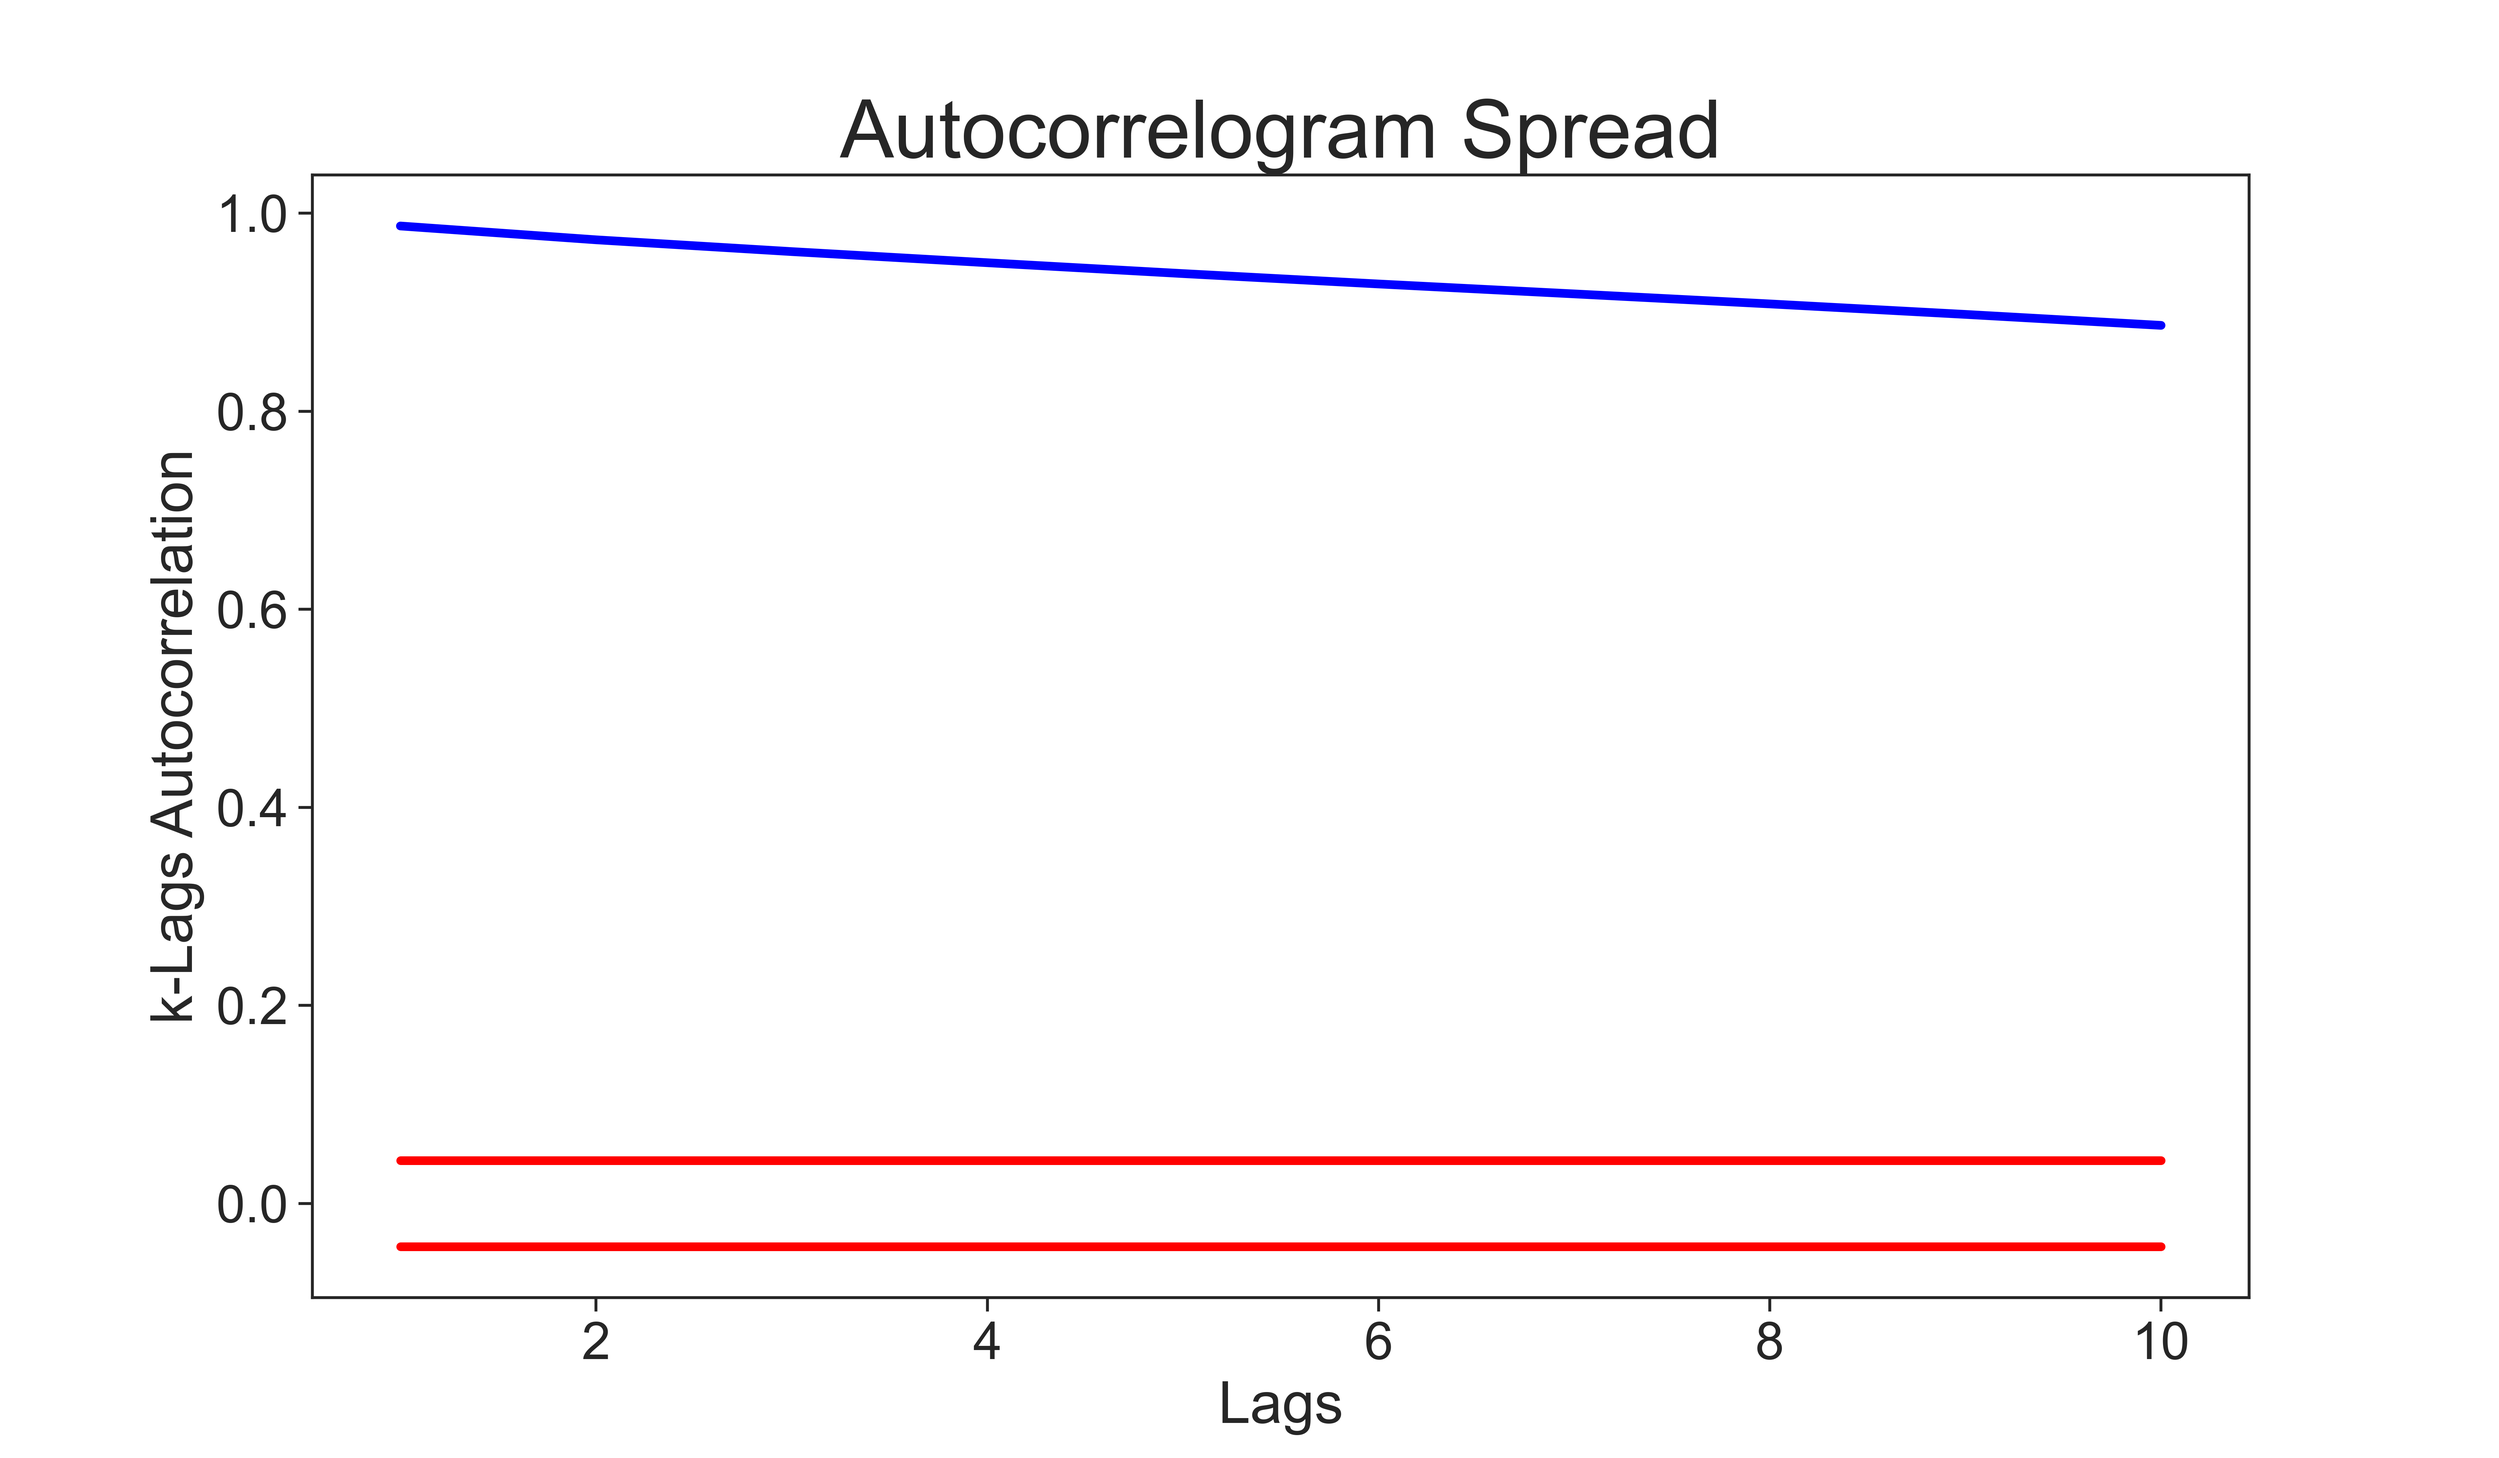
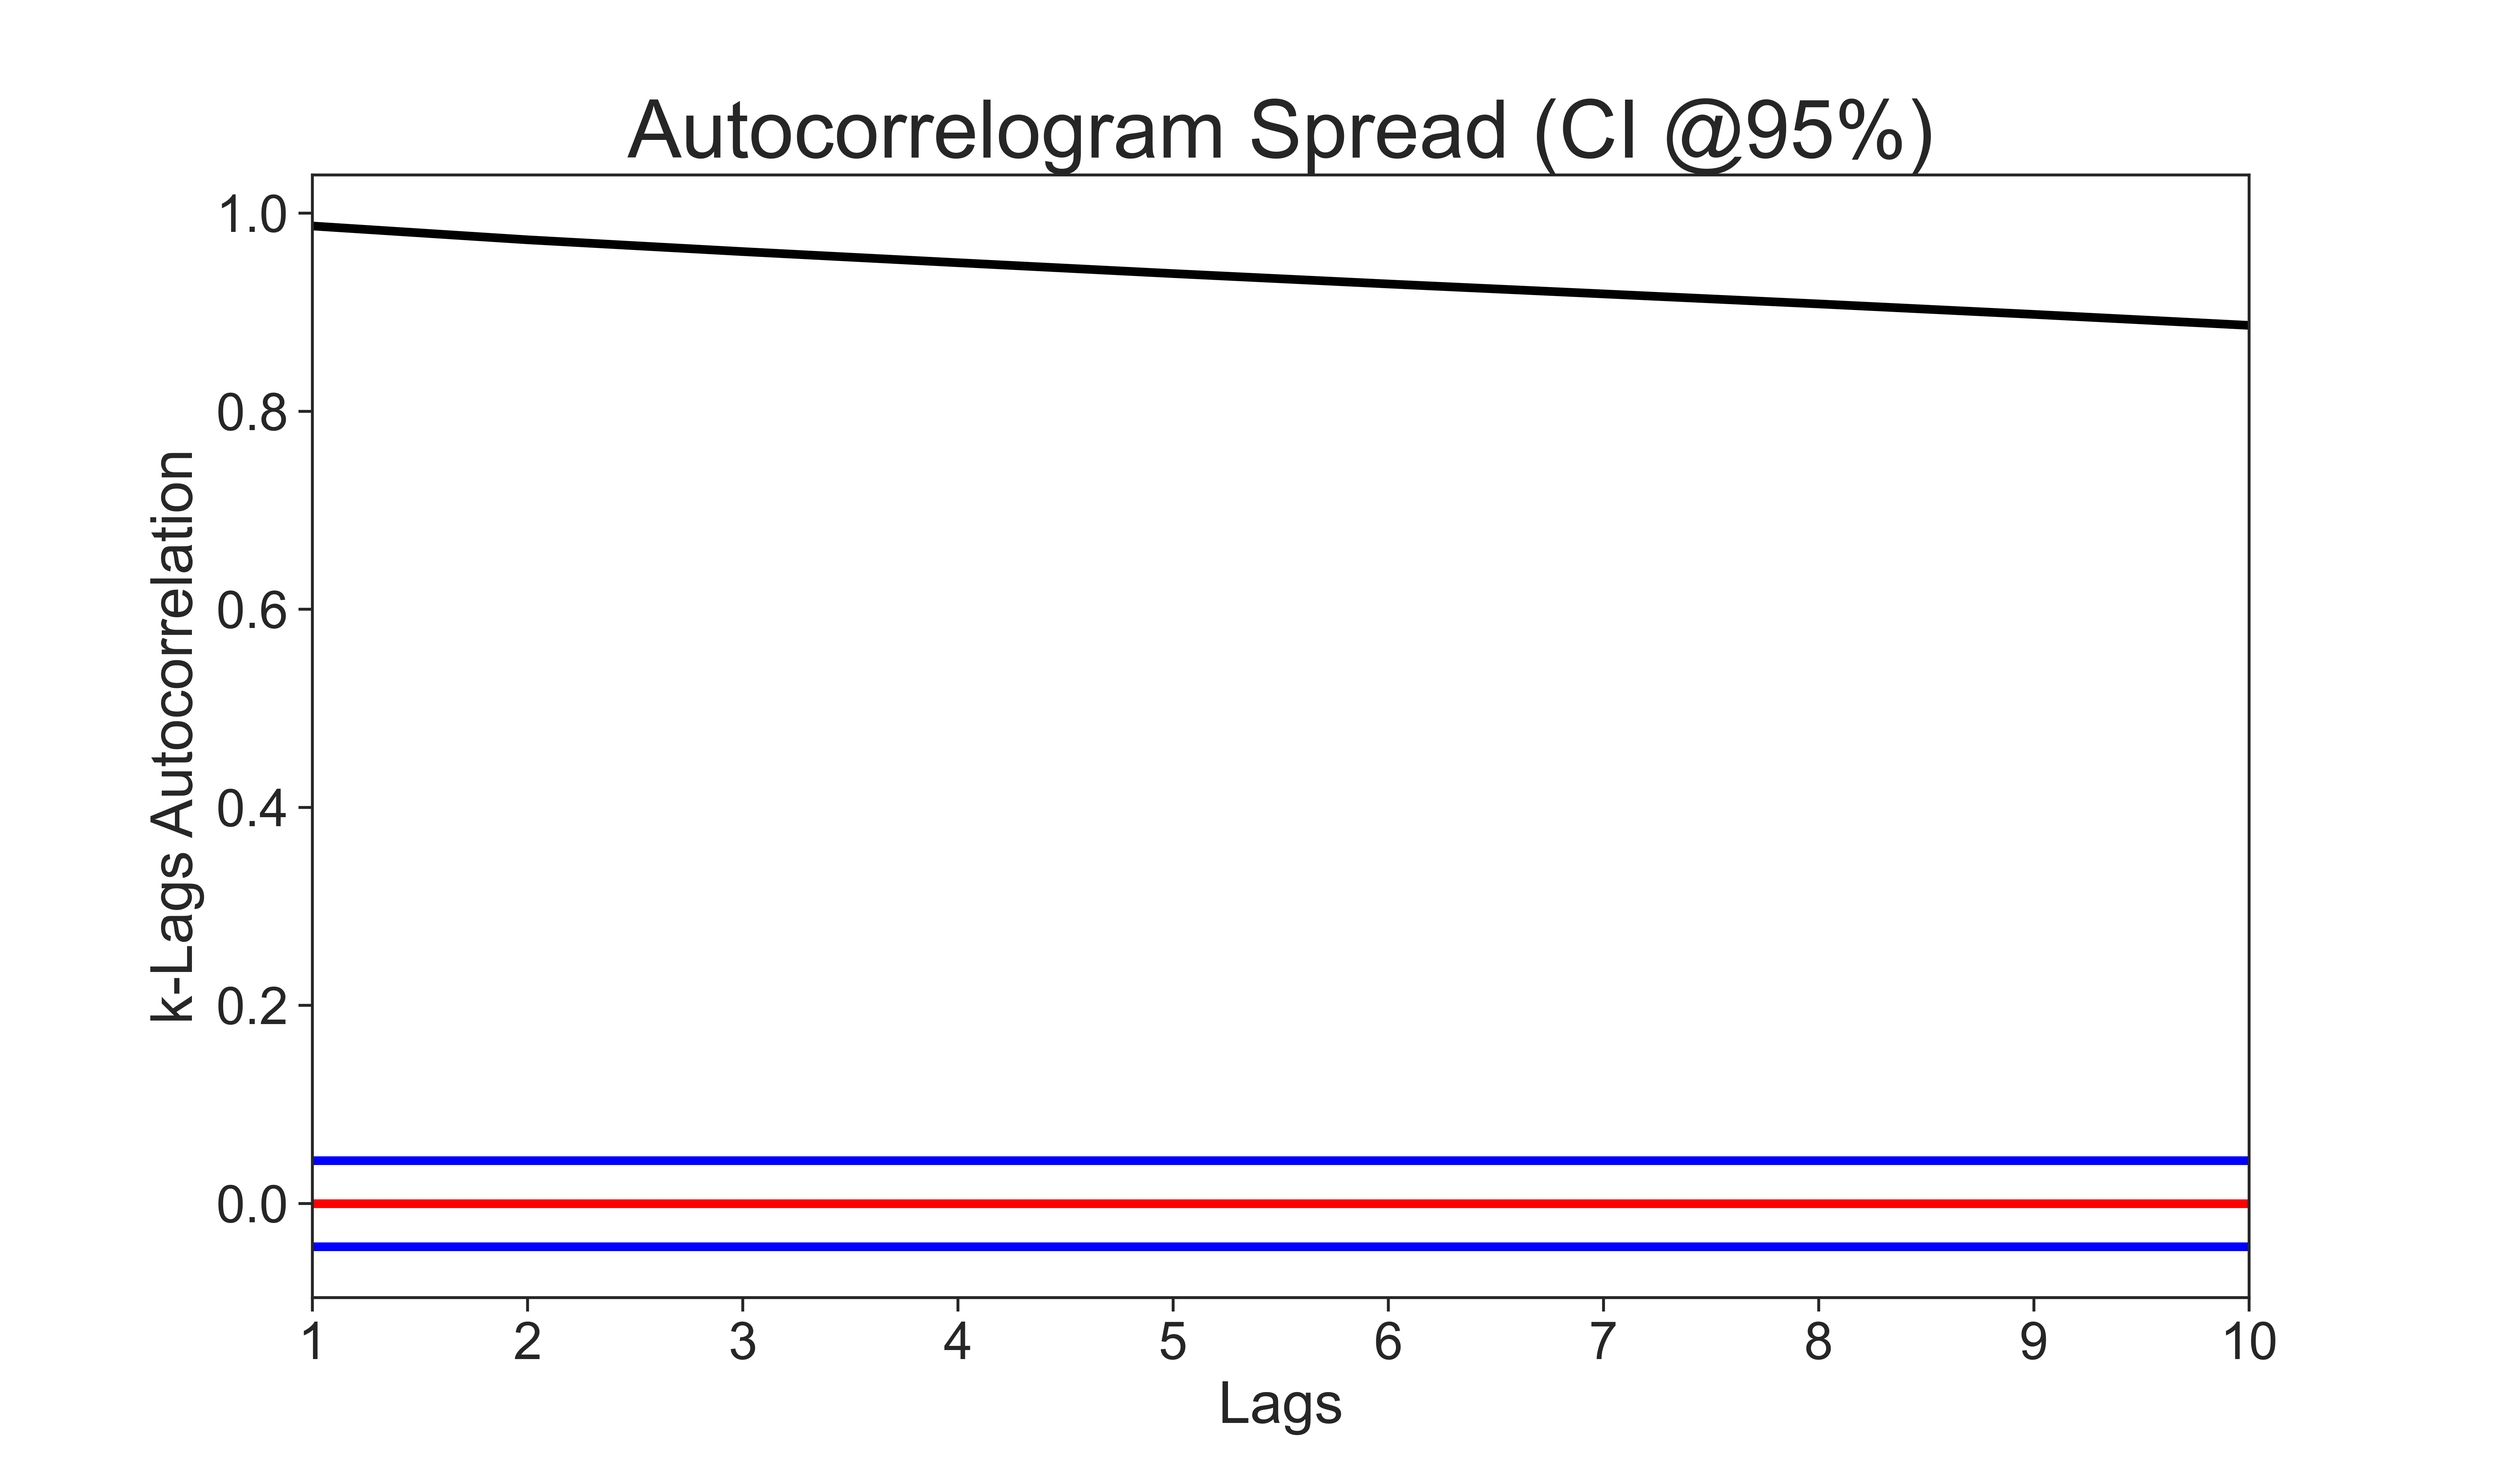
Modifs to Q3

diff --git a/main.py b/main.py
@@ -1,16 +1,16 @@
 # Import packages
 from pathlib import Path
 from scripts.parameters import paths
+from sklearn.linear_model import LinearRegression
 import matplotlib.dates as mdates
 import matplotlib.pyplot as plt
 import numpy as np
 import pandas as pd
 import scripts.functions as fn
-import warnings
 import seaborn as sns
+import warnings
 
 # Packages for testing functions (DELETE LATER)
-from sklearn.linear_model import LinearRegression
 from statsmodels.tsa.ar_model import AutoReg
 from statsmodels.tsa.stattools import adfuller
 from tqdm import tqdm
@@ -199,7 +199,7 @@ ax.xaxis.set_major_locator(date_locator)
 ax.xaxis.set_major_formatter(date_formatter)
 ax.set_xlabel(xlabel='')
 # Y-axis settings
-ax.set_yticklabels(labels=['{:.2f}'.format(y) for y in ax.get_yticks()], size=18)
+ax.set_yticklabels(labels=['{:.1f}'.format(y) for y in ax.get_yticks()], size=18)
 ax.set_ylabel(ylabel='Log Price', size=20)
 # Legend settings
 ax.legend(loc='upper left', fontsize=16)
@@ -260,7 +260,7 @@ ax.xaxis.set_major_locator(date_locator)
 ax.xaxis.set_major_formatter(date_formatter)
 ax.set_xlabel(xlabel='')
 # Y-axis settings
-ax.set_yticklabels(labels=['{:.2f}'.format(y) for y in ax.get_yticks()], size=18)
+ax.set_yticklabels(labels=['{:.1f}'.format(y) for y in ax.get_yticks()], size=18)
 ax.set_ylabel(ylabel='')
 # Legend settings
 ax.legend(loc='upper left', fontsize=16)
@@ -270,21 +270,26 @@ fig.savefig(Path.joinpath(paths.get('output'), 'Q3.2_Spread.png'))
 plt.close()
 
 # *** Question 3.3 ***
+# Compute autocorrelogram of spread
+df_autocorrelogram = fn.tab_autocorrelogram(s_data=s_spread, alpha=0.05, max_lags=10)
+
 # Plot autocorrelogram of spread
 sns.set(context='paper', style='ticks', font_scale=1.0)
 fig = plt.figure(figsize=(12, 7), dpi=600)
 ax = fig.add_subplot()
 ax.grid(False)
-ax.set_title(label='Autocorrelogram Spread', size=28)
+ax.set_title(label='Autocorrelogram Spread ({})'.format(df_autocorrelogram.columns[-1]), size=28)
 # Items
-df_autocorrelogram = fn.tab_autocorrelogram(s_data=s_spread, alpha=0.05, max_lags=10)
 s_autocorr = df_autocorrelogram['Autocorrelation']
 s_ci_lower = pd.Series([df_autocorrelogram.iloc[:, -1][i][0] for i in df_autocorrelogram.index], index=df_autocorrelogram.index)
 s_ci_upper = pd.Series([df_autocorrelogram.iloc[:, -1][i][1] for i in df_autocorrelogram.index], index=df_autocorrelogram.index)
-sns.lineplot(x=df_autocorrelogram.index, y=s_autocorr, color='blue', lw=3)
-sns.lineplot(x=df_autocorrelogram.index, y=s_ci_lower, color='red', lw=3)
-sns.lineplot(x=df_autocorrelogram.index, y=s_ci_upper, color='red', lw=3)
+ax.axhline(y=0, color='red', lw=3)
+sns.lineplot(x=df_autocorrelogram.index, y=s_autocorr, color='black', lw=3)
+sns.lineplot(x=df_autocorrelogram.index, y=s_ci_lower, color='blue', lw=3)
+sns.lineplot(x=df_autocorrelogram.index, y=s_ci_upper, color='blue', lw=3)
 # X-axis settings
+ax.set_xticks(np.arange(df_autocorrelogram.index[0], df_autocorrelogram.index[-1]+1, 1))
+ax.set_xlim(df_autocorrelogram.index[0], df_autocorrelogram.index[-1])
 ax.set_xticklabels(labels=['{:.0f}'.format(x) for x in ax.get_xticks()], size=18)
 ax.set_xlabel(xlabel='Lags', size=20)
 # Y-axis settings
@@ -425,7 +430,7 @@ ax.xaxis.set_major_locator(date_locator)
 ax.xaxis.set_major_formatter(date_formatter)
 ax.set_xlabel(xlabel='')
 # Y-axis settings
-ax.set_yticklabels(labels=['{:.2f}'.format(y) for y in ax.get_yticks()], size=18)
+ax.set_yticklabels(labels=['{:.0f}'.format(y) for y in ax.get_yticks()], size=18)
 ax.set_ylabel(ylabel='')
 # Legend settings
 ax.legend(loc='upper left', fontsize=16)
@@ -505,7 +510,7 @@ ax.xaxis.set_major_locator(date_locator)
 ax.xaxis.set_major_formatter(date_formatter)
 ax.set_xlabel(xlabel='')
 # Y-axis settings
-ax.set_yticklabels(labels=['{:.2f}'.format(y) for y in ax.get_yticks()], size=18)
+ax.set_yticklabels(labels=['{:.0f}'.format(y) for y in ax.get_yticks()], size=18)
 ax.set_ylabel(ylabel='')
 # Legend settings
 ax.legend(loc='upper left', fontsize=16)
@@ -531,7 +536,7 @@ ax.xaxis.set_major_locator(date_locator)
 ax.xaxis.set_major_formatter(date_formatter)
 ax.set_xlabel(xlabel='')
 # Y-axis settings
-ax.set_yticklabels(labels=['{:.2f}'.format(y) for y in ax.get_yticks()], size=18)
+ax.set_yticklabels(labels=['{:.1f}'.format(y) for y in ax.get_yticks()], size=18)
 ax.set_ylabel(ylabel='')
 # Legend settings
 ax.legend(loc='upper left', fontsize=16)
@@ -560,7 +565,7 @@ ax.xaxis.set_major_locator(date_locator)
 ax.xaxis.set_major_formatter(date_formatter)
 ax.set_xlabel(xlabel='')
 # Y-axis settings
-ax.set_yticklabels(labels=['{:.2f}'.format(y) for y in ax.get_yticks()], size=18)
+ax.set_yticklabels(labels=['{:.1f}'.format(y) for y in ax.get_yticks()], size=18)
 ax.set_ylabel(ylabel='')
 # Legend settings
 ax.legend(loc='upper left', fontsize=16)
@@ -603,8 +608,7 @@ plt.close()
 # **************************************************
 # *** Branch: Florian  Test                      ***
 # **************************************************
-
-
+"""
 T = len(df_data_ln.index)
 N = 10000
 column = 'ZC Adj Close'
@@ -728,3 +732,4 @@ for col in l_adj_close_price:
     # Step 4: Compute the T-Statistic
     df_stat = (phi_hat - 1) / phi_std
     print(df_stat)
+"""

diff --git a/scripts/functions.py b/scripts/functions.py
@@ -1,10 +1,8 @@
 # Import packages
 from itertools import permutations
 from scipy import stats
-from scripts.parameters import paths
 from sklearn.linear_model import LinearRegression
 from tqdm import tqdm
-import matplotlib.pyplot as plt
 import numpy as np
 import pandas as pd
 import statsmodels.api as sm
@@ -274,14 +272,14 @@ def tab_autocorrelogram(s_data, alpha=0.05, max_lags=10):
     # Assumption: i.i.d. process ==> sqrt(T)*rho_k follows N(0,1) ==> rho_k follows N(0,1/T)
     T = len(s_data)
     std_rho_k = np.sqrt(1 / T)
-    df_autocorrelogram = pd.DataFrame(columns=['Autocorrelation', 'CI @ {:.1%}'.format(1 - alpha)])
+    df_autocorrelogram = pd.DataFrame(columns=['Autocorrelation', 'CI @{:.0%}'.format(1 - alpha)])
     df_autocorrelogram.index.rename('Lags', inplace=True)
     for k in range(1, max_lags + 1):
         rho_k = s_data.autocorr(lag=k)
         crit_val = stats.norm.ppf((1 - alpha / 2), loc=0, scale=std_rho_k)
         conf_int = [-crit_val, crit_val]
         df_autocorrelogram.loc[k, 'Autocorrelation'] = rho_k
-        df_autocorrelogram.loc[k, 'CI @ {:.1%}'.format(1 - alpha)] = conf_int
+        df_autocorrelogram.loc[k, 'CI @{:.0%}'.format(1 - alpha)] = conf_int
     return df_autocorrelogram
 
 
@@ -716,5 +714,3 @@ def print_PT_report(df_PT):
 # **************************************************
 # *** Branch: Florian                            ***
 # **************************************************
-
-
